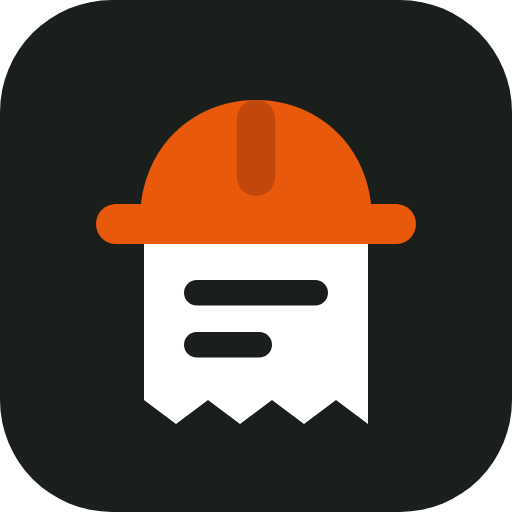
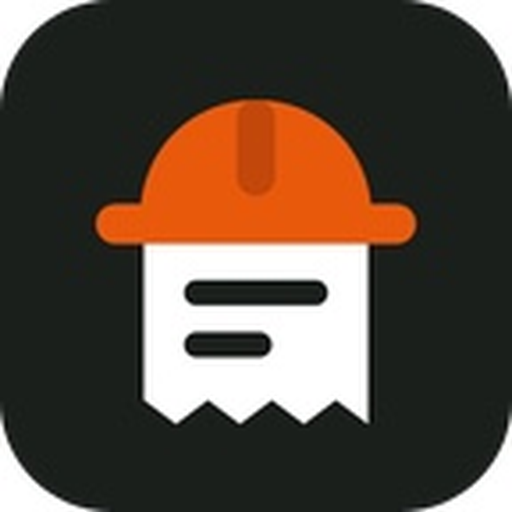
Add files via upload

diff --git a/index.html b/index.html
@@ -18,11 +18,11 @@
 <meta property="og:description" content="Invoicing for ABN subbies in Australia. Start, finish, and a PDF invoice with your ABN, BSB and total in AUD.">
 <meta property="og:image" content="https://subbiebill.com/og.png">
 <meta name="twitter:card" content="summary_large_image">
[1 lines of base64/hex data omitted]
+<link rel="icon" type="image/png" sizes="192x192" href="favicon.png">
 <link rel="canonical" href="https://subbiebill.com/">
 <script type="application/ld+json">[{"@context": "https://schema.org", "@type": "Organization", "name": "SubbieBill", "url": "https://subbiebill.com/", "logo": "https://subbiebill.com/icon-512.png", "email": "support@subbiebill.com", "areaServed": "AU", "sameAs": ["https://www.trustpilot.com/review/subbiebill.com"]}, {"@context": "https://schema.org", "@type": "SoftwareApplication", "name": "SubbieBill", "url": "https://subbiebill.com/", "applicationCategory": "BusinessApplication", "operatingSystem": "Web, iOS, Android", "description": "Free invoice app for ABN subcontractors and tradies in Australia. Enter your hours and get a professional PDF invoice with your ABN, BSB and GST worked out in 30 seconds.", "inLanguage": "en-AU", "offers": [{"@type": "Offer", "name": "Free", "price": "0", "priceCurrency": "AUD"}, {"@type": "Offer", "name": "Premium monthly", "price": "4.99", "priceCurrency": "AUD"}, {"@type": "Offer", "name": "Premium yearly", "price": "39", "priceCurrency": "AUD"}]}]</script>
-<link rel="icon" type="image/png" sizes="192x192" href="icon-192.png">
-<link rel="apple-touch-icon" href="apple-touch-icon.png">
+<link rel="icon" type="image/png" sizes="192x192" href="favicon.png">
+<link rel="apple-touch-icon" sizes="180x180" href="apple-touch-icon.png">
 <link rel="manifest" href="manifest.webmanifest">
 <meta name="apple-mobile-web-app-status-bar-style" content="default">
 <meta name="mobile-web-app-capable" content="yes">
@@ -629,7 +629,7 @@ label.oninv::after{content:attr(data-tag);font-size:.68rem;font-weight:700;lette
 .adl dd{overflow-wrap:normal;word-break:normal;white-space:normal}
 .ahead{flex-direction:row!important}
 .ahead .auemail{flex:1 1 calc(100% - 30px)}
-.trust{display:flex;gap:12px;align-items:flex-start;margin-top:16px;padding:14px 16px;border:1px solid var(--line);border-radius:14px;background:var(--paper);text-align:left}.trustico{width:26px;height:26px;flex:none;color:var(--green,#1F7A4A);margin-top:1px}.trust strong{display:block;font-size:.98rem}.trust>div>span{display:block;font-size:.86rem;color:var(--muted);margin-top:2px}.trustl{margin:8px 0 0;padding:0;list-style:none;display:flex;flex-direction:column;gap:6px;font-size:.86rem}.trustl li{position:relative;padding-left:20px;line-height:1.4}.trustl li::before{content:"✓";position:absolute;left:0;font-weight:800;color:var(--green,#1F7A4A)}.premium .trust{margin-top:14px}.foot a.sel{color:inherit}.legal{display:flex;flex-wrap:wrap;gap:4px 16px;margin:0}.legal a{color:var(--muted);text-decoration:underline;text-underline-offset:3px;padding:6px 0;font-size:.86rem}.footabn{font-size:.8rem}.legalnote{display:none;margin:0;font-size:.82rem;color:var(--muted);line-height:1.45}.legalnote a{color:inherit;text-decoration:underline;text-underline-offset:2px}#authform:has(#authpass2wrap:not([hidden])) .legalnote{display:block}.premlegal{justify-content:center;margin-top:10px}.legal.guides span{color:var(--muted);font-size:.86rem;padding:6px 0;font-weight:700}.rvask{display:flex;gap:10px;align-items:flex-start;margin:10px 0 2px;padding:12px;border-radius:12px;background:var(--paper);border:1px solid var(--line);color:var(--ink)}.rvask[hidden]{display:none}.rvask p{margin:0 0 8px;font-weight:600;color:var(--ink)!important}.rvstar{flex:none;width:30px;height:30px;border-radius:8px;background:#00B67A;color:#fff;display:grid;place-items:center}.rvstar svg{width:18px;height:18px}.rvaskb{display:flex;flex-wrap:wrap;gap:8px 14px;align-items:center}.rvaskb .btnlink{min-height:40px;padding:0 14px;font-size:.9rem}.rvbody{min-width:0;flex:1}.lockbar .rvask{flex:1 1 100%;width:100%;box-sizing:border-box}.legal .tplink span{text-decoration:none}.legal .tplink [aria-hidden]{color:#00B67A}</style>
+.trust{display:flex;gap:12px;align-items:flex-start;margin-top:16px;padding:14px 16px;border:1px solid var(--line);border-radius:14px;background:var(--paper);text-align:left}.trustico{width:26px;height:26px;flex:none;color:var(--green,#1F7A4A);margin-top:1px}.trust strong{display:block;font-size:.98rem}.trust>div>span{display:block;font-size:.86rem;color:var(--muted);margin-top:2px}.trustl{margin:8px 0 0;padding:0;list-style:none;display:flex;flex-direction:column;gap:6px;font-size:.86rem}.trustl li{position:relative;padding-left:20px;line-height:1.4}.trustl li::before{content:"✓";position:absolute;left:0;font-weight:800;color:var(--green,#1F7A4A)}.premium .trust{margin-top:14px}.foot a.sel{color:inherit}.legal{display:flex;flex-wrap:wrap;gap:4px 16px;margin:0}.legal a{color:var(--muted);text-decoration:underline;text-underline-offset:3px;padding:6px 0;font-size:.86rem}.footabn{font-size:.8rem}.legalnote{display:none;margin:0;font-size:.82rem;color:var(--muted);line-height:1.45}.legalnote a{color:inherit;text-decoration:underline;text-underline-offset:2px}#authform:has(#authpass2wrap:not([hidden])) .legalnote{display:block}.premlegal{justify-content:center;margin-top:10px}.legal.guides span{color:var(--muted);font-size:.86rem;padding:6px 0;font-weight:700}.rvask{display:flex;gap:10px;align-items:flex-start;margin:10px 0 2px;padding:12px;border-radius:12px;background:var(--paper);border:1px solid var(--line);color:var(--ink)}.rvask[hidden]{display:none}.rvask p{margin:0 0 8px;font-weight:600;color:var(--ink)!important}.rvstar{flex:none;width:30px;height:30px;border-radius:8px;background:#00B67A;color:#fff;display:grid;place-items:center}.rvstar svg{width:18px;height:18px}.rvaskb{display:flex;flex-wrap:wrap;gap:8px 14px;align-items:center}.rvaskb .btnlink{min-height:40px;padding:0 14px;font-size:.9rem}.rvbody{min-width:0;flex:1}.lockbar .rvask{flex:1 1 100%;width:100%;box-sizing:border-box}.legal .tplink span{text-decoration:none}.legal .tplink [aria-hidden]{color:#00B67A}@media (max-width:480px){.dinputs[style*="--cols:4"]{grid-template-columns:repeat(2,minmax(0,1fr))}}@media (max-width:360px){.dinputs[style*="--cols:3"]{grid-template-columns:repeat(2,minmax(0,1fr))}}.dinputs select{text-overflow:clip}#authform:has(#authpass2wrap:not([hidden])) #authforgot{display:none}.seg label{min-width:0}.wlabel{min-width:0;flex:1 1 0}.metagrid>*,.fields>*,.hoursopts>*{min-width:0}@media (max-width:360px){.weeknav{gap:6px}.weeknav .arrow{width:40px;height:44px;flex:none}.wlabel strong{white-space:normal;font-size:clamp(1.1rem,5.8vw,1.3rem)}.seg label{white-space:normal;line-height:1.15}}button.del.sure{width:auto;padding:0 10px;color:var(--accent-strong);font-weight:800;font-size:.84rem}</style>
 </head>
 <body>
 
@@ -767,7 +767,7 @@ label.oninv::after{content:attr(data-tag);font-size:.68rem;font-weight:700;lette
 </div>
 
 <header class="top" style="padding-top:12px">
[1 lines of base64/hex data omitted]
+  <a class="brand" href="#" data-i18n-aria="nav.home" aria-label="SubbieBill, home"><img src="favicon.png" alt="SubbieBill logo" width="30" height="30"><span>SubbieBill</span></a>
   <div class="topr" id="topr" hidden>
     <span id="planbadge" class="badge"></span>
     <button id="btn_gopro" class="gopro" type="button" hidden data-i18n="top.gopro">Go Premium</button>
@@ -915,7 +915,7 @@ label.oninv::after{content:attr(data-tag);font-size:.68rem;font-weight:700;lette
     <details><summary data-i18n="faq.q6">Invoice or Tax invoice: what's the difference?</summary><p data-i18n="faq.a6">A “Tax invoice” is for businesses registered for GST: it shows the GST (10%) separately, as the ATO requires. If you're not registered, SubbieBill makes an “Invoice” that says no GST has been charged, because a business that isn't registered must not call its invoice a tax invoice. For tax invoices of $1,000 or more, the client's name or ABN must appear: SubbieBill always prints the client's name.</p></details>
     <details><summary data-i18n="faq.q7">How do I download or share my PDF?</summary><p data-i18n="faq.a7">Tap Finish invoice, check the summary, then Finish and download PDF. The PDF goes to your downloads. On most phones, Share PDF sends it straight to Mail, Messages or WhatsApp. Download again works as long as the invoice is open, and from your History with Premium.</p></details>
     <details><summary data-i18n="faq.q8">Where are my invoices saved?</summary><p data-i18n="faq.a8">In your SubbieBill account, online, not only on your phone: log in on any device and your details and drafts are there. Drafts save as you type. With Premium, every invoice is kept in your History. On Free, finished invoices aren't kept in a History, so keep the PDFs you download.</p></details>
-    <details><summary data-i18n="faq.q9">How do I change an invoice?</summary><p data-i18n="faq.a9">Until you finish it, change anything: it saves by itself. A finished invoice keeps its number so your records stay straight. To fix a mistake, tap “Fix a mistake: copy to a new invoice”, correct it and finish it under a new number, then tell your client to use the new one. On Free, this uses one of your free invoices.</p></details>
+    <details><summary data-i18n="faq.q9">How do I change an invoice?</summary><p data-i18n="faq.a9">Until you finish it, change anything: it saves by itself. A finished invoice is locked so your records stay straight. To fix a mistake, open it and tap Edit: correct it and finish it again. It keeps the same number and you get a new PDF to send. On Free, finishing it again uses one of your free invoices.</p></details>
     <details><summary data-i18n="faq.q10">What's the difference between Free and Premium?</summary><p data-i18n="faq.a10">Free: 3 finished invoices with every tool included, no History. Premium ($39 a year or $4.99 a month): unlimited invoices and a History of every invoice, with yearly totals, to download again anytime.</p></details>
     <details><summary data-i18n="faq.q3">Who can see my bank details?</summary><p data-i18n="faq.a3">You, and the SubbieBill administrator when helping with your account. Your details are tied to your account, protected by your password and sent over an encrypted connection. Your clients only see them on the invoices you send.</p></details>
     <details><summary data-i18n="faq.q4">Can I cancel Premium?</summary><p data-i18n="faq.a4">Yes, anytime. You go back to Free: your History stays in your account and comes back if you return to Premium.</p></details>
@@ -952,7 +952,7 @@ label.oninv::after{content:attr(data-tag);font-size:.68rem;font-weight:700;lette
   </section>
 
   <footer class="foot">
[1 lines of base64/hex data omitted]
+    <div class="footbrand"><img src="favicon.png" alt="" width="22" height="22"><span>SubbieBill</span></div>
     <p data-i18n="foot.tag">Invoicing for ABN subcontractors in Australia.</p>
     <p><span data-i18n="foot.q">Questions?</span> <a class="sel" href="mailto:support@subbiebill.com">support@subbiebill.com</a></p>
     <p class="legal guides"><span data-i18n="lg.guides">Guides:</span><a href="subcontractor-invoice.html">How to invoice as a subbie</a><a href="abn-invoice-template.html">ABN invoice template</a><a href="gst-for-subcontractors.html">GST for subcontractors</a></p>
@@ -1098,7 +1098,7 @@ en:{
   "a.online":"Online now",
   "faq.a10":"Free: 3 finished invoices with every tool included, no History. Premium ($39 a year or $4.99 a month): unlimited invoices and a History of every invoice, with yearly totals, to download again anytime.",
   "faq.q10":"What's the difference between Free and Premium?",
-  "faq.a9":"Until you finish it, change anything: it saves by itself. A finished invoice keeps its number so your records stay straight. To fix a mistake, tap “Fix a mistake: copy to a new invoice”, correct it and finish it under a new number, then tell your client to use the new one. On Free, this uses one of your free invoices.",
+  "faq.a9":"Until you finish it, change anything: it saves by itself. A finished invoice is locked so your records stay straight. To fix a mistake, open it and tap Edit: correct it and finish it again. It keeps the same number and you get a new PDF to send. On Free, finishing it again uses one of your free invoices.",
   "faq.q9":"How do I change an invoice?",
   "faq.a8":"In your SubbieBill account, online, not only on your phone: log in on any device and your details and drafts are there. Drafts save as you type. With Premium, every invoice is kept in your History. On Free, finished invoices aren't kept in a History, so keep the PDFs you download.",
   "faq.q8":"Where are my invoices saved?",
@@ -1121,12 +1121,12 @@ en:{
   "i.email_bad":"This email doesn't look right.",
   "i.acc_bad":"Check the account number: digits only, usually 6 to 10.",
   "i.bsb_bad":"A BSB has 6 digits, e.g. 062-000.",
-  "rv.after_pro":"Finishing gives the invoice its number and creates the PDF. It stays in your History to download or share again. To fix a mistake later, copy it to a new invoice.",
+  "rv.after_pro":"Finishing gives the invoice its number and creates the PDF. It stays in your History to download or share again. To fix a mistake later, tap Edit: it keeps the same number.",
   "fin.copied":"Copied to a new invoice, no. {no}. Fix it, then finish it.",
   "fin.share":"Share PDF",
   "rv.ph":"Public holiday",
   "rv.free":"Uses 1 of your {n} free invoices left.",
-  "rv.after":"Finishing gives the invoice its number and creates the PDF. On Free, finished invoices aren't kept in a History, so keep the PDF. To fix a mistake, copy it to a new invoice.",
+  "rv.after":"Finishing gives the invoice its number and creates the PDF. On Free, finished invoices aren't kept in a History, so keep the PDF. To fix a mistake later, tap Edit: it keeps the same number.",
   "rv.change":"Change",
   "rv.nogst2":"No GST on this invoice.",
   "rv.nogst":"No GST charged (not registered).",
@@ -1369,7 +1369,7 @@ en:{
   "err.created_confirm":"Account created. Open the confirmation email, then log in.","err.offline":"No connection. Try again.",
   "err.service":"Can't reach the service. Check your connection and reload.","err.load":"Couldn't load your account. Reload the page.",
   "err.forgot":"Email {email} from the address on your account.",
-  "foot.tag":"Invoicing for ABN subcontractors in Australia.","foot.q":"Questions?","lg.terms":"Terms","tpr.ask":"Happy with SubbieBill? A quick review really helps.","tpr.go":"Leave a review","tpr.no":"Not now","tpr.foot":"Reviews on Trustpilot","lg.guides":"Guides:","lg.refunds":"Refunds","lg.privacy":"Privacy","lg.agree":"By creating an account, you agree to our","lg.terms_long":"Terms of Service","lg.and":"and","lg.privacy_long":"Privacy Policy",
+  "foot.tag":"Invoicing for ABN subcontractors in Australia.","foot.q":"Questions?","lg.terms":"Terms","lst.sure":"Remove?","tpr.ask":"Happy with SubbieBill? A quick review really helps.","tpr.go":"Leave a review","tpr.no":"Not now","tpr.foot":"Reviews on Trustpilot","lg.guides":"Guides:","lg.refunds":"Refunds","lg.privacy":"Privacy","lg.agree":"By creating an account, you agree to our","lg.terms_long":"Terms of Service","lg.and":"and","lg.privacy_long":"Privacy Policy",
   "top.free":"Free","top.premium":"Premium","top.history":"History","top.menu":"Menu","sheet.close":"Close",
   "onb.title":"Welcome to SubbieBill","onb.sub":"Three steps and your first invoice is ready.","onb.s1":"Your details (just once)","onb.fill":"Fill in","onb.s2":"Who you bill","onb.s3":"Your hours",
   "per.aria":"Invoice period","per.week":"Week","per.fortnight":"Fortnight","per.month":"Month",
@@ -1452,7 +1452,7 @@ fr:{
   "a.online":"En ligne",
   "faq.a10":"Gratuit : 3 factures terminées avec tous les outils, sans historique. Premium (39 $ par an ou 4,99 $ par mois) : factures illimitées et historique de toutes tes factures, avec les totaux par année, à retélécharger quand tu veux.",
   "faq.q10":"Quelle différence entre Gratuit et Premium ?",
-  "faq.a9":"Tant qu'elle n'est pas terminée, tu changes tout : ça s'enregistre tout seul. Une facture terminée garde son numéro pour que tes comptes restent clairs. Pour corriger une erreur, touche « Corriger une erreur : copier dans une nouvelle facture », corrige-la et termine-la sous un nouveau numéro, puis dis à ton client d'utiliser la nouvelle. En gratuit, ça utilise une de tes factures gratuites.",
+  "faq.a9":"Tant qu'elle n'est pas terminée, tu changes tout : ça s'enregistre tout seul. Une facture terminée est verrouillée pour que tes comptes restent clairs. Pour corriger une erreur, ouvre-la et touche Modifier : corrige-la et termine-la à nouveau. Elle garde le même numéro et tu obtiens un nouveau PDF à envoyer. En gratuit, la terminer à nouveau utilise une de tes factures gratuites.",
   "faq.q9":"Comment modifier une facture ?",
   "faq.a8":"Sur ton compte SubbieBill, en ligne, pas seulement sur ton téléphone : connecte-toi sur n'importe quel appareil et tu retrouves tes infos et tes brouillons. Les brouillons s'enregistrent pendant que tu tapes. Avec Premium, chaque facture est gardée dans ton historique. En gratuit, les factures terminées ne sont pas gardées dans un historique : garde les PDF que tu télécharges.",
   "faq.q8":"Où sont enregistrées mes factures ?",
@@ -1475,19 +1475,19 @@ fr:{
   "i.email_bad":"Cet email ne semble pas correct.",
   "i.acc_bad":"Vérifie le numéro de compte : chiffres uniquement, souvent 6 à 10.",
   "i.bsb_bad":"Un BSB a 6 chiffres, ex. 062-000.",
-  "rv.after_pro":"Terminer donne son numéro à la facture et crée le PDF. Elle reste dans ton historique pour la retélécharger ou la partager. Pour corriger une erreur plus tard, copie-la dans une nouvelle facture.",
+  "rv.after_pro":"Terminer donne son numéro à la facture et crée le PDF. Elle reste dans ton historique pour la retélécharger ou la partager. Pour corriger une erreur plus tard, touche Modifier : elle garde le même numéro.",
   "fin.copied":"Copiée dans une nouvelle facture, n° {no}. Corrige-la puis termine-la.",
   "fin.share":"Partager le PDF",
   "rv.ph":"Jour férié",
   "rv.free":"Utilise 1 de tes {n} factures gratuites restantes.",
-  "rv.after":"Terminer donne son numéro à la facture et crée le PDF. En gratuit, les factures terminées ne sont pas gardées dans un historique : garde bien le PDF. Pour corriger une erreur, copie-la dans une nouvelle facture.",
+  "rv.after":"Terminer donne son numéro à la facture et crée le PDF. En gratuit, les factures terminées ne sont pas gardées dans un historique : garde bien le PDF. Pour corriger une erreur plus tard, touche Modifier : elle garde le même numéro.",
   "rv.change":"Modifier",
   "rv.nogst2":"Pas de GST sur cette facture.",
   "rv.nogst":"Pas de GST (non inscrit).",
   "rv.total":"Total",
   "rv.gst":"GST (10 %)",
   "rv.sub":"Sous-total (hors GST)",
-  "rv.paid":"Payé sur",
+  "rv.paid":"À verser sur",
   "rv.from":"De",
   "rv.dates_v":"Émise le {issue} · à payer le {due}",
   "rv.dates":"Dates",
@@ -1677,7 +1677,7 @@ fr:{
   "days.mode_times":"Début – fin",
   "days.mode_aria":"Comment tu saisis tes heures",
   "save.auto_pro":"Enregistrée automatiquement dans ton historique ✓",
-  "auth.pass_ph_login":"Ton mot de passe","save.locked":"Historique automatique · Premium","p.why_save":"Avec Premium, chaque facture que tu remplis s'enregistre toute seule dans ton historique.","p.why_limit":"Tu as utilisé tes 3 factures gratuites. Passe en Premium pour continuer à facturer.","bar.finish":"Terminer la facture","bar.confirm":"Confirmer ?","bar.redownload":"Retélécharger","bar.working":"Création de ta facture…","quota.left":"{n} facture(s) gratuite(s) restante(s) sur {limit}","quota.none":"Plus de facture gratuite","fin.locked":"Facture terminée le {date}. Le PDF est prêt à envoyer.","fin.next":"Commencer la facture suivante","fin.edit":"Modifier","fin.done":"Facture terminée. Le PDF est dans tes téléchargements.","fin.again":"Facture retéléchargée.","fin.abn_taken":"Cet ABN est déjà utilisé par un autre compte SubbieBill.","fin.abn_invalid":"Cet ABN n'est pas valide. Vérifie-le dans Mes infos.","fin.details":"Tes infos ne sont pas complètes : regarde ce qui manque en bas.","fin.server":"Impossible de joindre le serveur de factures. Vérifie ta connexion et réessaie.","fin.auth":"Ta session a expiré. Reconnecte-toi.","fin.bad":"Quelque chose n'est pas valide dans cette facture. Vérifie tes heures et tes taux.","st.abn_taken":"Cet ABN est déjà utilisé par un autre compte. Tes changements ne sont pas enregistrés.","i.abn_bad":"Cet ABN ne semble pas correct (11 chiffres).","m.admin":"Admin","m.admin_sub":"statistiques et membres","a.title":"Admin","a.users":"Membres","a.new7":"Nouveaux cette semaine","a.active7":"Actifs cette semaine","a.premium":"Premium","a.paid":"Payants (Stripe)","a.invoices":"Factures terminées","a.inv30":"Factures, 30 derniers jours","a.total":"Total facturé","a.atlimit":"Gratuits à la limite","a.search_lbl":"Membres","a.search":"Chercher email, nom ou ABN","a.give":"Donner Premium","a.remove":"Retirer Premium","a.src_stripe":"Premium · Stripe","a.src_manual":"Premium · offert","a.src_free":"Gratuit","a.joined":"Inscrit le {date}","a.inv_n":"{n} facture(s)","a.admin_tag":"admin","a.err":"Accès réservé à l'admin.","a.stripe_note":"Payé via Stripe. Annule l'abonnement dans Stripe pour le retirer.","a.done":"Mis à jour.","a.more":"Voir plus","a.none":"Aucun membre trouvé.",
+  "auth.pass_ph_login":"Ton mot de passe","save.locked":"Historique automatique · Premium","p.why_save":"Avec Premium, chaque facture que tu remplis s'enregistre toute seule dans ton historique.","p.why_limit":"Tu as utilisé tes 3 factures gratuites. Passe en Premium pour continuer à facturer.","bar.finish":"Terminer la facture","bar.confirm":"Confirmer ?","bar.redownload":"Retélécharger","bar.working":"Création de ta facture…","quota.left":"{n} facture(s) gratuite(s) sur {limit} restante(s)","quota.none":"Plus de facture gratuite","fin.locked":"Facture terminée le {date}. Le PDF est prêt à envoyer.","fin.next":"Commencer la facture suivante","fin.edit":"Modifier","fin.done":"Facture terminée. Le PDF est dans tes téléchargements.","fin.again":"Facture retéléchargée.","fin.abn_taken":"Cet ABN est déjà utilisé par un autre compte SubbieBill.","fin.abn_invalid":"Cet ABN n'est pas valide. Vérifie-le dans Mes infos.","fin.details":"Tes infos ne sont pas complètes : regarde ce qui manque en bas.","fin.server":"Impossible de joindre le serveur de factures. Vérifie ta connexion et réessaie.","fin.auth":"Ta session a expiré. Reconnecte-toi.","fin.bad":"Quelque chose n'est pas valide dans cette facture. Vérifie tes heures et tes taux.","st.abn_taken":"Cet ABN est déjà utilisé par un autre compte. Tes changements ne sont pas enregistrés.","i.abn_bad":"Cet ABN ne semble pas correct (11 chiffres).","m.admin":"Admin","m.admin_sub":"statistiques et membres","a.title":"Admin","a.users":"Membres","a.new7":"Nouveaux cette semaine","a.active7":"Actifs cette semaine","a.premium":"Premium","a.paid":"Payants (Stripe)","a.invoices":"Factures terminées","a.inv30":"Factures, 30 derniers jours","a.total":"Total facturé","a.atlimit":"Gratuits à la limite","a.search_lbl":"Membres","a.search":"Chercher email, nom ou ABN","a.give":"Donner Premium","a.remove":"Retirer Premium","a.src_stripe":"Premium · Stripe","a.src_manual":"Premium · offert","a.src_free":"Gratuit","a.joined":"Inscrit le {date}","a.inv_n":"{n} facture(s)","a.admin_tag":"admin","a.err":"Accès réservé à l'admin.","a.stripe_note":"Payé via Stripe. Annule l'abonnement dans Stripe pour le retirer.","a.done":"Mis à jour.","a.more":"Voir plus","a.none":"Aucun membre trouvé.",
   days:["dim","lun","mar","mer","jeu","ven","sam"],
   "doc.title":"SubbieBill · La facture des sous-traitants sous ABN",
   "lang.label":"Langue",
@@ -1723,7 +1723,7 @@ fr:{
   "err.created_confirm":"Compte créé. Ouvre l'email de confirmation puis connecte-toi.","err.offline":"Pas de connexion. Réessaie.",
   "err.service":"Impossible de joindre le service. Vérifie ta connexion puis recharge.","err.load":"Impossible de charger ton compte. Recharge la page.",
   "err.forgot":"Écris à {email} avec l'email de ton compte.",
-  "foot.tag":"La facture des sous-traitants sous ABN en Australie.","foot.q":"Une question ?","lg.terms":"Conditions","tpr.ask":"Tu aimes SubbieBill ? Un petit avis nous aide vraiment.","tpr.go":"Laisser un avis","tpr.no":"Plus tard","tpr.foot":"Avis sur Trustpilot","lg.guides":"Guides (en anglais) :","lg.refunds":"Remboursements","lg.privacy":"Confidentialité","lg.agree":"En créant un compte, tu acceptes nos","lg.terms_long":"conditions d'utilisation","lg.and":"et notre","lg.privacy_long":"politique de confidentialité",
+  "foot.tag":"La facture des sous-traitants sous ABN en Australie.","foot.q":"Une question ?","lg.terms":"Conditions","lst.sure":"Supprimer ?","tpr.ask":"Tu aimes SubbieBill ? Un petit avis nous aide vraiment.","tpr.go":"Laisser un avis","tpr.no":"Plus tard","tpr.foot":"Avis sur Trustpilot","lg.guides":"Guides (en anglais) :","lg.refunds":"Remboursements","lg.privacy":"Confidentialité","lg.agree":"En créant un compte, tu acceptes nos","lg.terms_long":"conditions d'utilisation","lg.and":"et notre","lg.privacy_long":"politique de confidentialité",
   "top.free":"Gratuit","top.premium":"Premium","top.history":"Historique","top.menu":"Menu","sheet.close":"Fermer",
   "onb.title":"Bienvenue sur SubbieBill","onb.sub":"Trois étapes et ta première facture est prête.","onb.s1":"Tes infos (une seule fois)","onb.fill":"Remplir","onb.s2":"À qui tu factures","onb.s3":"Tes heures",
   "per.aria":"Durée de la facture","per.week":"Semaine","per.fortnight":"2 semaines","per.month":"Mois",
@@ -1745,10 +1745,10 @@ fr:{
   "bar.sum":"{h} · {d} · AUD","bar.day":"{n} jour","bar.days":"{n} jours","bar.pdf":"Télécharger le PDF",
   "pdfm.need_client":"Choisis d'abord ton client.","pdfm.need_hours":"Mets au moins une journée de travail.","pdfm.no_lib":"Le module PDF n'a pas chargé. Vérifie ta connexion puis recharge.",
   "pdfm.ready":"PDF prêt.","pdfm.fail":"Le PDF n'a pas pu être créé. Réessaie.",
-  "m.title":"Menu","m.account":"Compte","m.premium":"Passer en Premium","m.manage":"Gérer mon abonnement",
+  "m.title":"Menu","m.account":"Compte","m.premium":"Passer Premium","m.manage":"Gérer mon abonnement",
   "m.infos":"Mes infos","m.infos_sub":"nom, ABN, banque","m.settings":"Réglages","m.settings_sub":"taux, saisie",
   "m.lists":"Clients et lieux","m.lists_sub":"gérer les listes","m.logout":"Se déconnecter","lo.title":"Déconnexion ?","lo.txt":"Tes factures et tes infos restent enregistrées dans ton compte. Tu pourras te reconnecter quand tu veux avec ton email et ton mot de passe.","lo.go":"Oui, me déconnecter","lo.cancel":"Rester connecté",
-  "plan.free":"Gratuit · {n} facture(s) gratuite(s) restante(s) sur {limit}","plan.pro":"Premium","plan.pro_until":"Premium jusqu'au {date}",
+  "plan.free":"Gratuit · {n} facture(s) gratuite(s) sur {limit} restante(s)","plan.pro":"Premium","plan.pro_until":"Premium jusqu'au {date}",
   "i.title":"Mes infos","i.intro":"Tout ce qui est marqué « Sur la facture » est imprimé sur tes factures. À remplir une seule fois.","i.name":"Nom et prénom","i.abn":"ABN","i.abn_ph":"11 chiffres",
   "i.email":"Email (facultatif)","i.phone":"Téléphone (facultatif)","i.addr":"Adresse (facultatif)","i.bsb":"BSB","i.acc":"Numéro de compte","i.ok":"C'est bon",
   "s.title":"Réglages","s.mode":"Comment tu saisis tes heures","s.times":"Début et fin","s.hours":"Nombre d'heures","s.unpaid":"J'ai une pause non payée",
@@ -1770,7 +1770,7 @@ es:{
   "_locale":"es-419",
   "faq.a10":"Gratis: 3 facturas terminadas con todas las herramientas, sin historial. Premium ($39 al año o $4.99 al mes): facturas ilimitadas y un historial de todas tus facturas, con totales por año, para descargarlas otra vez cuando quieras.",
   "faq.q10":"¿Qué diferencia hay entre Gratis y Premium?",
-  "faq.a9":"Mientras no esté terminada, cambia lo que quieras: se guarda sola. Una factura terminada conserva su número para que tus cuentas estén claras. Para corregir un error, toca «Corregir un error: copiar en una factura nueva», corrígela y termínala con un número nuevo, y dile a tu cliente que use la nueva. En Gratis, esto usa una de tus facturas gratuitas.",
+  "faq.a9":"Mientras no esté terminada, cambia lo que quieras: se guarda sola. Una factura terminada queda bloqueada para que tus cuentas estén claras. Para corregir un error, ábrela y toca Modificar: corrígela y termínala otra vez. Conserva el mismo número y obtienes un PDF nuevo para enviar. En Gratis, terminarla otra vez usa una de tus facturas gratuitas.",
   "faq.q9":"¿Cómo modifico una factura?",
   "faq.a8":"En tu cuenta de SubbieBill, en línea, no solo en tu teléfono: entra desde cualquier dispositivo y ahí están tus datos y tus borradores. Los borradores se guardan mientras escribes. Con Premium, cada factura queda en tu historial. En Gratis, las facturas terminadas no se guardan en un historial, así que guarda los PDF que descargas.",
   "faq.q8":"¿Dónde se guardan mis facturas?",
@@ -1793,12 +1793,12 @@ es:{
   "i.email_bad":"Este email no parece correcto.",
   "i.acc_bad":"Revisa el número de cuenta: solo cifras, normalmente de 6 a 10.",
   "i.bsb_bad":"Un BSB tiene 6 cifras, p. ej. 062-000.",
-  "rv.after_pro":"Terminar le da su número a la factura y crea el PDF. Queda en tu historial para descargarla o compartirla otra vez. Para corregir un error más tarde, cópiala en una factura nueva.",
+  "rv.after_pro":"Terminar le da su número a la factura y crea el PDF. Queda en tu historial para descargarla o compartirla otra vez. Para corregir un error más tarde, toca Modificar: conserva el mismo número.",
   "fin.copied":"Copiada en una factura nueva, n.º {no}. Corrígela y luego termínala.",
   "fin.share":"Compartir PDF",
   "rv.ph":"Feriado",
   "rv.free":"Usa 1 de tus {n} facturas gratuitas restantes.",
-  "rv.after":"Terminar le da su número a la factura y crea el PDF. En Gratis, las facturas terminadas no se guardan en un historial: guarda bien el PDF. Para corregir un error, cópiala en una factura nueva.",
+  "rv.after":"Terminar le da su número a la factura y crea el PDF. En Gratis, las facturas terminadas no se guardan en un historial: guarda bien el PDF. Para corregir un error más tarde, toca Modificar: conserva el mismo número.",
   "rv.change":"Cambiar",
   "rv.nogst2":"Sin GST en esta factura.",
   "rv.nogst":"Sin GST (no registrado).",
@@ -1955,7 +1955,7 @@ es:{
   "lang.label":"Idioma",
   "nav.login":"Iniciar sesión",
   "nav.home":"SubbieBill, inicio",
-  "hero.title":"Horas adentro. Factura afuera. En 30 segundos.",
+  "hero.title":"Tus horas. Tu factura. En 30 segundos.",
   "hero.lede":"Para subbies con ABN en Australia que cobran por hora. Anotas tu hora de inicio y de fin: SubbieBill hace las cuentas y crea una factura PDF profesional. Sin planillas, sin plantillas.",
   "hero.cta":"Crear mi primera factura",
   "hero.note":"Tus 3 primeras facturas son gratis. Sin tarjeta.",
@@ -2051,7 +2051,7 @@ es:{
   "err.load":"No se pudo cargar tu cuenta. Recarga la página.",
   "err.forgot":"Escribe a {email} desde la dirección de tu cuenta.",
   "foot.tag":"Facturación para subcontratistas con ABN en Australia.",
-  "foot.q":"¿Preguntas?","lg.terms":"Condiciones","tpr.ask":"¿Te gusta SubbieBill? Una reseña rápida nos ayuda mucho.","tpr.go":"Dejar una reseña","tpr.no":"Ahora no","tpr.foot":"Reseñas en Trustpilot","lg.guides":"Guías (en inglés):","lg.refunds":"Reembolsos","lg.privacy":"Privacidad","lg.agree":"Al crear una cuenta, aceptas nuestras","lg.terms_long":"condiciones de uso","lg.and":"y nuestra","lg.privacy_long":"política de privacidad",
+  "foot.q":"¿Preguntas?","lg.terms":"Condiciones","lst.sure":"¿Quitar?","tpr.ask":"¿Te gusta SubbieBill? Una reseña rápida nos ayuda mucho.","tpr.go":"Dejar una reseña","tpr.no":"Ahora no","tpr.foot":"Reseñas en Trustpilot","lg.guides":"Guías (en inglés):","lg.refunds":"Reembolsos","lg.privacy":"Privacidad","lg.agree":"Al crear una cuenta, aceptas nuestras","lg.terms_long":"condiciones de uso","lg.and":"y nuestra","lg.privacy_long":"política de privacidad",
   "top.free":"Gratis",
   "top.premium":"Premium",
   "top.history":"Historial",
@@ -2458,7 +2458,7 @@ function renderOtHint(){const ot=I().ot||OT_DEF,rt=P().rate||0;
 function setOt(k,v){if(locked())return;const inv=I();inv.ot=Object.assign(clone(OT_DEF),inv.ot||{},{[k]:v});P().ot=clone(inv.ot);
   $("otbox").hidden=!inv.ot.on;renderOtHint();inv.rows.forEach((r,i)=>renderAmt(i));renderTotals();save()}
 function setMode(m){if(m!=="hours")m="times";if(P().mode===m)return;P().mode=m;
-  if(!locked()&&m==="times")I().rows.forEach(r=>{if(r.start&&r.end)r.hours=calcHours(r)});
+  if(!locked()&&m==="times")I().rows.forEach(r=>{if(r.start&&r.end)r.hours=calcHours(r);else if(r.hours>0){const pz=P().unpaid?(+r.pause||0):0,len=Math.round(r.hours*4)*15+pz,st=r.start||"07:00",e=(toMin(st)+len)%1440;r.start=st;r.end=pad2(Math.floor(e/60))+":"+pad2(e%60);r.hours=calcHours(r)}});
   renderDays();renderTotals();save()}
 function renderDays(){renderMode();const inv=I(),multi=invType(inv)!=="week";let h="";
   inv.rows.forEach((r,i)=>{if(multi&&(i===0||parse(r.date).getDay()===1))h+=`<div class="wsep">${esc(t("days.week_of",{date:nice(mondayOf(r.date))}))}</div>`;h+=dayHtml(r,i)});
@@ -2485,7 +2485,7 @@ $("daylist").addEventListener("click",e=>{const c=e.target.closest("[data-ph]");
   const i=I().rows.findIndex(r=>r.date===b.dataset.rest),el=document.querySelector(`#day${i} select`);if(el)el.focus()});
 $("daylist").addEventListener("change",onDay);$("daylist").addEventListener("input",e=>{if(e.target.dataset.f==="rate")onDay(e)});
 function onDay(e){const el=e.target,i=+el.dataset.i,f=el.dataset.f;if(!f||locked())return;const r=I().rows[i];
-  if(f==="rate")r.rate=parseFloat(el.value)||0;
+  if(f==="rate"){const v=parseFloat(el.value);if(v<0)el.value="";r.rate=v>0?v:0}
   else if(f==="hours")r.hours=parseFloat(el.value)||0;
   else if(f==="pause"){r.pause=parseInt(el.value)||0;r.hours=calcHours(r)}
   else if(f==="loc")r.loc=el.value;
@@ -2513,12 +2513,14 @@ wirePick("billto","billto_new","clients","billto");wirePick("site","site_new","s
 
 const draftKey=inv=>invType(inv)+":"+inv.start;
 function stashDraft(){const p=P(),inv=p&&p.inv;if(!inv||plan.premium||inv.finished||!hasHours(inv))return;p.drafts=p.drafts||{};
-  p.drafts[draftKey(inv)]={...clone(inv),_at:Date.now()};
-  Object.keys(p.drafts).sort((x,y)=>(p.drafts[y]._at||0)-(p.drafts[x]._at||0)).slice(12).forEach(k=>delete p.drafts[k])}
+  p.drafts[draftKey(inv)]={...clone(inv),_at:Date.now()};pruneDrafts(p)}
+/* keep the 12 newest drafts and the 104 newest finished invoices (about 2 years of weeks) */
+function pruneDrafts(p){const ks=Object.keys(p.drafts||{}).sort((x,y)=>(p.drafts[y]._at||0)-(p.drafts[x]._at||0));
+  ks.filter(k=>!p.drafts[k].finished).slice(12).forEach(k=>delete p.drafts[k]);ks.filter(k=>p.drafts[k]&&p.drafts[k].finished).slice(104).forEach(k=>delete p.drafts[k])}
 function openPeriod(type,ref){stashDraft();keepCurrent();syncSaved();const p=P(),[a]=periodRange(type,ref);
   const found=(p.saved||[]).filter(e=>e.inv&&invType(e.inv)===type&&e.inv.start===a).sort((x,y)=>(y.updatedAt||0)-(x.updatedAt||0))[0],dr=!found&&p.drafts&&p.drafts[type+":"+a];
-  if(found){p.inv=clone(found.inv);p.curSaved=found.id}else if(dr&&!dr.finished){p.inv=clone(dr);delete p.inv._at;p.curSaved=null}else{p.inv=newInv(type,ref);p.curSaved=null}
-  p.period=type;migrateInv(p.inv);syncMsg=null;renderAll();save()}
+  if(found){p.inv=clone(found.inv);p.curSaved=found.id}else if(dr){p.inv=clone(dr);delete p.inv._at;p.curSaved=null}else{p.inv=newInv(type,ref);p.curSaved=null}
+  p.period=type;migrateInv(p.inv);syncMsg=null;clearTimeout(pdfMsg.t);delete $("pdfmsg").dataset.keep;renderAll();save()}
 function changeType(ty){const inv=I(),p=P();if(invType(inv)===ty)return;if(locked()){p.period=ty;openPeriod(ty,inv.start);return}p.period=ty;
   if(!hasHours(inv)&&!curEntry()){openPeriod(ty,inv.start);return}
   const ref=(inv.rows.find(r=>r.hours>0)||{}).date||inv.start,[a,b]=periodRange(ty,ref);
@@ -2614,7 +2616,7 @@ $("defdesc").addEventListener("input",e=>{if(locked())return;const v=e.target.va
 function renderLists(){[["clients","list_clients","l.none_c"],["sites","list_sites","l.none_s"]].forEach(([k,id,empty])=>{
   const ul=$(id);ul.innerHTML=state[k].length?"":`<li><span class="muted">${esc(t(empty))}</span></li>`;
   state[k].forEach((v,i)=>{const li=document.createElement("li");li.innerHTML=`<span></span><button class="del" type="button" aria-label="${esc(t("l.remove"))}">×</button>`;
-    li.querySelector("span").textContent=v;li.querySelector("button").onclick=()=>{state[k].splice(i,1);renderLists();renderWeek();renderDays();save()};ul.appendChild(li)})})}
+    li.querySelector("span").textContent=v;li.querySelector("button").onclick=e=>{const b=e.currentTarget;if(!b.dataset.sure){b.dataset.sure="1";b.textContent=t("lst.sure");b.classList.add("sure");setTimeout(()=>{if(b.isConnected){delete b.dataset.sure;b.textContent="×";b.classList.remove("sure")}},3000);return}state[k].splice(i,1);renderLists();renderWeek();renderDays();save()};ul.appendChild(li)})})}
 
 /* history */
 function renderHist(){const p=P(),list=(p.saved||[]).slice().sort((a,b)=>(b.inv.start||"")<(a.inv.start||"")?-1:1),ul=$("histlist");ul.innerHTML="";
@@ -2862,7 +2864,7 @@ function drawInvoice(doc, me, inv) {
   const per = inv.start && inv.end ? `${pdmy(inv.start)} – ${pdmy(inv.end)}` : "";
   [["Bill to:", inv.billto], inv.billto_abn ? ["Client ABN:", String(inv.billto_abn).replace(/\D/g, "")] : null,
    ["Invoice No:", inv.invno], ["Issue date:", pdmy(inv.issue)], ["Due date:", pdmy(inv.due)], per ? ["Period:", per] : null].filter(Boolean).forEach(([k, v]) => {
-    font("bold", 9); const lines = doc.splitTextToSize(ptxt(v), 46).slice(0, 3);
+    font("bold", 9); const all = doc.splitTextToSize(ptxt(v), 46), lines = all.slice(0, 5); if (all.length > 5) lines[4] = lines[4].replace(/\s*\S{0,2}$/, "") + "…";
     font("normal", 9); col(MUT); doc.text(k, 144, ry, { align: "right" });
     font("bold", 9); col(INK); lines.forEach((t, i) => doc.text(t, R, ry + i * 4.4, { align: "right" }));
     ry += STEP + (lines.length - 1) * 4.4;
@@ -3075,7 +3077,7 @@ async function doFinish(o){o=o||{};if(finishing)return;const p=P(),inv=I(),lk=lo
       if(o.share){if(!inv.finished)inv.finished={at:new Date().toISOString()};return true}
       const u=URL.createObjectURL(new Blob([bytes],{type:"application/pdf"})),a=document.createElement("a");a.href=u;a.download=name;document.body.appendChild(a);a.click();a.remove();setTimeout(()=>URL.revokeObjectURL(u),30000);
       if(out.reused&&!lk&&out.inv){const keep=inv.id;Object.assign(inv,clone(out.inv));inv.id=keep;migrateInv(inv)}
-      const again=lk;if(!inv.finished)inv.finished={at:out.created_at||new Date().toISOString()};if(p.drafts)delete p.drafts[draftKey(inv)];p.lastInvNo=Math.max(+p.lastInvNo||0,parseInt(inv.invno)||0);
+      const again=lk;if(!inv.finished)inv.finished={at:out.created_at||new Date().toISOString()};if(!plan.premium){p.drafts=p.drafts||{};p.drafts[draftKey(inv)]={...clone(inv),_at:Date.now()};pruneDrafts(p)}else if(p.drafts)delete p.drafts[draftKey(inv)];p.lastInvNo=Math.max(+p.lastInvNo||0,parseInt(inv.invno)||0);
       if(plan.premium&&!curEntry())addToHistory();
       save();flushSave();renderAll();pdfMsg(t(again?"fin.again":"fin.done"));askReview(again);return}
     const st=out&&out.status;
